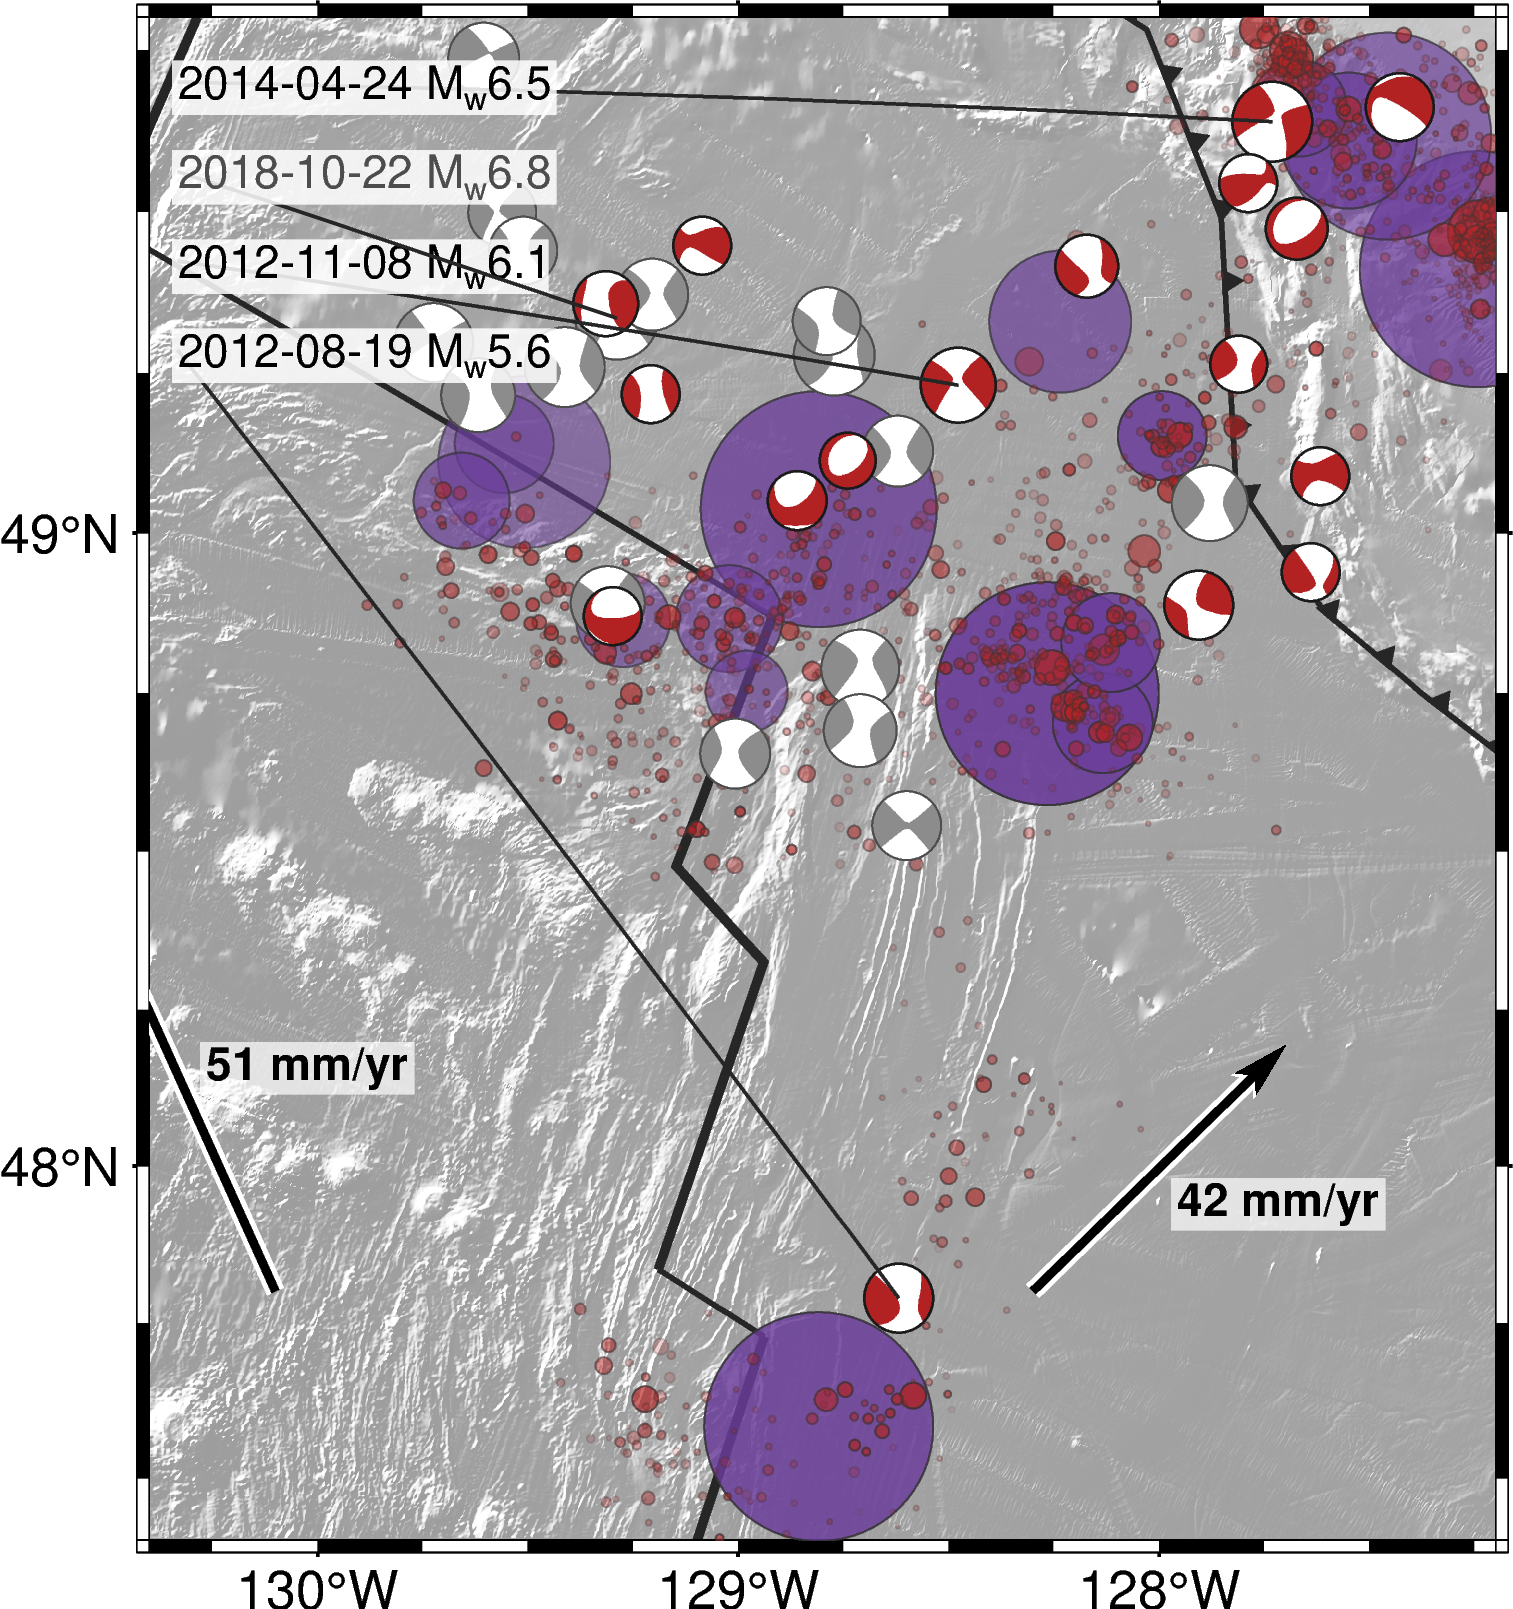
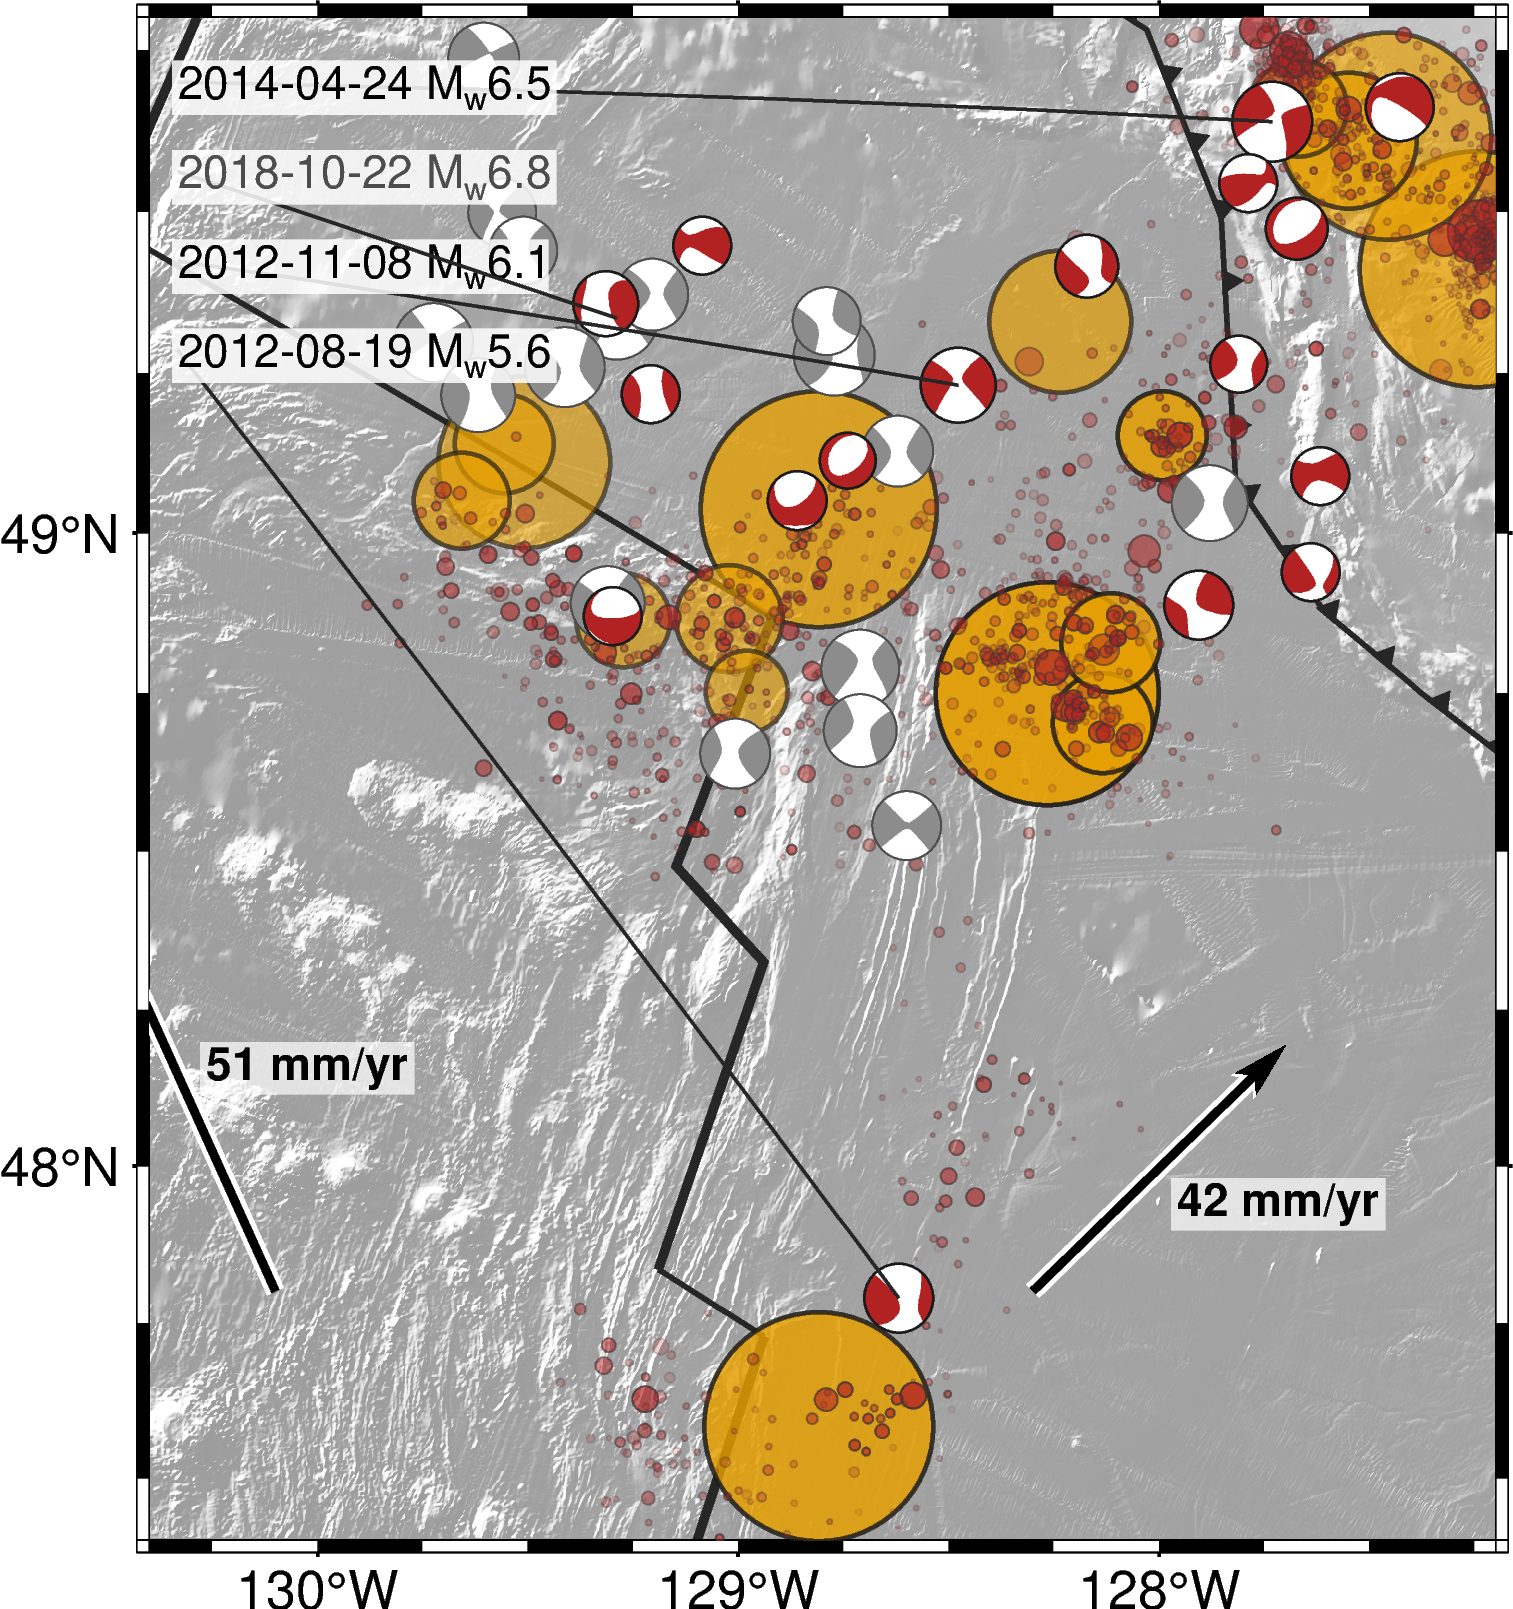
Mw events in outlined Okabe-Ito orange; driver takes SUFFIX/HIGHPASS
- Orange #E69F00 replaces purple for events whose preferred magnitude is Mw.
  Against firebrick it gives CVD dE 26 (purple 19.8) and is light enough for
  the red dots on top to read. Low contrast with the gray relief is handled by
  a gray10 outline and capped transparency
- run_route_a_rerun.sh: OUT/DATA/SUFFIX/HIGHPASS so a variant run (the 0.5 Hz
  high-pass revision test, now running into rerun_hp05/ and data/magnitude_hp05/)
  cannot overwrite the paper's outputs; both dirs git-ignored

diff --git a/4_relocation/magnitude/phase5_pygmt_map.py b/4_relocation/magnitude/phase5_pygmt_map.py
@@ -30,7 +30,7 @@ import pygmt
 
 import map_context as mc
 
-MW_COLOR = "#6A3D9A"     # preferred magnitude is an Mw (utils/paper_style.MW_COLOR)
+MW_COLOR = "#E69F00"     # preferred magnitude is an Mw (utils/paper_style.MW_COLOR)
 
 SLAB = "../../data/slab2/cas_slab2_dep.xyz"
 GMRT_DIR = "../../data/gmrt"     # cached GMRT grids (git-ignored)
@@ -280,10 +280,11 @@ def main(argv=None):
         fig.colorbar(position="JMR+o0.6c/0c+w8c", frame=["x+lhypocentral depth", "y+lkm"])
     else:
         transp = picks_to_transparency(picks, picks_ref)
-        for sel, fill in ((is_mw, MW_COLOR), (~is_mw, args.color)):   # Mw events (largest) first
+        # Mw events (the largest) first, outlined: orange is light on the gray relief
+        for sel, fill, pen in ((is_mw, MW_COLOR, "0.45p,gray10"), (~is_mw, args.color, "0.2p,gray20")):
             if sel.any():
                 fig.plot(x=df["evlo"][sel], y=df["evla"][sel], size=size[sel], fill=fill,
-                         style="cc", pen="0.2p,gray20", transparency=transp[sel])
+                         style="cc", pen=pen, transparency=np.minimum(transp[sel], 40) if fill == MW_COLOR else transp[sel])
 
     mt = None if (args.no_context or full_catalog) else mc.load_mt(region, df)
     top = pd.DataFrame()
@@ -375,7 +376,8 @@ def main(argv=None):
             if mw_key:                                # fill: which magnitude
                 ym = yc - max(sz) / 2 - 0.45
                 for xc, fc, lab in ((0.25, args.color, "M@-L@-"), (1.25, MW_COLOR, "M@-w@- @~\\263@~4.5")):
-                    fig.plot(x=[xc], y=[ym], style="c0.2c", fill=fc, pen="0.3p,gray20")
+                    fig.plot(x=[xc], y=[ym], style="c0.2c", fill=fc,
+                             pen="0.45p,gray10" if fc == MW_COLOR else "0.3p,gray20")
                     fig.text(x=xc + 0.17, y=ym, text=lab, justify="LM", font="6.5p,Helvetica")
                 yc -= 0.35                            # shift the rows below
             if conf:

diff --git a/paper/main.tex b/paper/main.tex
@@ -756,7 +756,7 @@ magnitude is \(M_L\). We do not calibrate the mapped events against
 small ones agree with ComCat, so no single offset fits; most of their
 large events have a ComCat tensor, and only six without one have
 \(M_L\ge4\). The maps mark the events whose preferred magnitude is a
-moment magnitude in purple. The same response-removed waveforms also
+moment magnitude in orange. The same response-removed waveforms also
 give a peak displacement in the 0.05--2\textasciitilde Hz band for every
 pick, which we store for future work: a moment magnitude requires
 fitting the low-frequency displacement spectral level, which is possible
@@ -895,7 +895,7 @@ relocations.
     quality-controlled subset (${\ge}4$ P and ${\ge}4$ S picks, RMS ${<}2.5$~s;
     $N=31{,}020$) is flagged in the released catalog for users who prefer it.
     Marker area scales with the preferred magnitude (legend, top right): $M_L$ in red,
-    and in purple for the 78 events above 4.5 whose magnitude is a moment magnitude (ComCat
+    and in orange for the 78 events above 4.5 whose magnitude is a moment magnitude (ComCat
     moment tensor, or $M_L$ calibrated to $M_w$; Methods). Marker
     opacity with the number of associated phase picks (well-constrained events
     appear solid, weakly constrained ones fade), so detection confidence is
@@ -957,7 +957,7 @@ Sound).
         \caption{Mendocino triple junction}
     \end{subfigure}
     \caption{{\bf Regional zoom-ins of the ensemble catalog}, same encoding as
-    Figure~\ref{fig:fig4} (size~$\sim M$, purple where $M$ is a moment magnitude,
+    Figure~\ref{fig:fig4} (size~$\sim M$, orange where $M$ is a moment magnitude,
     opacity~$\sim$ pick count), with one marker
     size scale shared by the six panels (legend in a) and the same opacity scale as
     Figure~\ref{fig:fig4}a, over gray shaded GMRT relief. Beachballs are the preferred

diff --git a/4_relocation/magnitude/phase17_routeA_vs_kpos.py b/4_relocation/magnitude/phase17_routeA_vs_kpos.py
@@ -71,7 +71,7 @@ for sel,col,lab,c,mk in [(T.ML.notna(),"ML_routeA","joint-inversion $M_L$ (fitte
                          (T.ML_method=="mapped","ML","catalog $M_L$, mapped (no picks within 150 km)",OURS,"x")]:
     style=dict(color=c) if mk=="x" else dict(facecolor="none",edgecolor=c)          # "x" is unfilled
     ax[4].scatter(T.Mw_mt[sel],T[col][sel]-T.Mw_mt[sel],s=9,marker=mk,lw=0.7,label=f"{lab}, n={int(sel.sum())}",**style)
-ax[4].axvline(4.5,c=MW_COLOR,lw=.8,ls="--"); ax[4].text(4.55,-2.35,"$M_w$ used above 4.5",color=MW_COLOR,fontsize=6.5)
+ax[4].axvline(4.5,c=MW_COLOR,lw=1.0,ls="--"); ax[4].text(4.55,-2.35,"$M_w$ used above 4.5",color=INK,fontsize=6.5)
 ax[4].axhline(0,c=MUTED,lw=.6); ax[4].set(ylim=(-2.5,2.6),xlabel="ComCat moment-tensor $M_w$",ylabel="Magnitude $-$ $M_w$"); ax[4].legend(loc="upper right",frameon=True,facecolor="white",edgecolor="none",framealpha=0.9)
 db=np.array([0,30,60,100,150,200,300,400,500,700,1000])
 for name,ref,c in [("ComCat $M_L\\geq$2.5 anchors",an[an.ml>=2.5].rename(columns={"ml":"ref"}),INK),

diff --git a/utils/paper_style.py b/utils/paper_style.py
@@ -35,7 +35,7 @@ CLASS_COLORS = {
 OURS, REF = "#D55E00", "#0072B2"
 INK, MUTED = "#222222", "#666666"
 # events whose preferred magnitude is a moment magnitude (ComCat tensor or calibrated)
-MW_COLOR = "#6A3D9A"
+MW_COLOR = "#E69F00"      # Okabe-Ito orange; vs firebrick dE 26 (deutan); outline it on gray
 
 _FONTS = Path(__file__).resolve().parent / "fonts"
 
